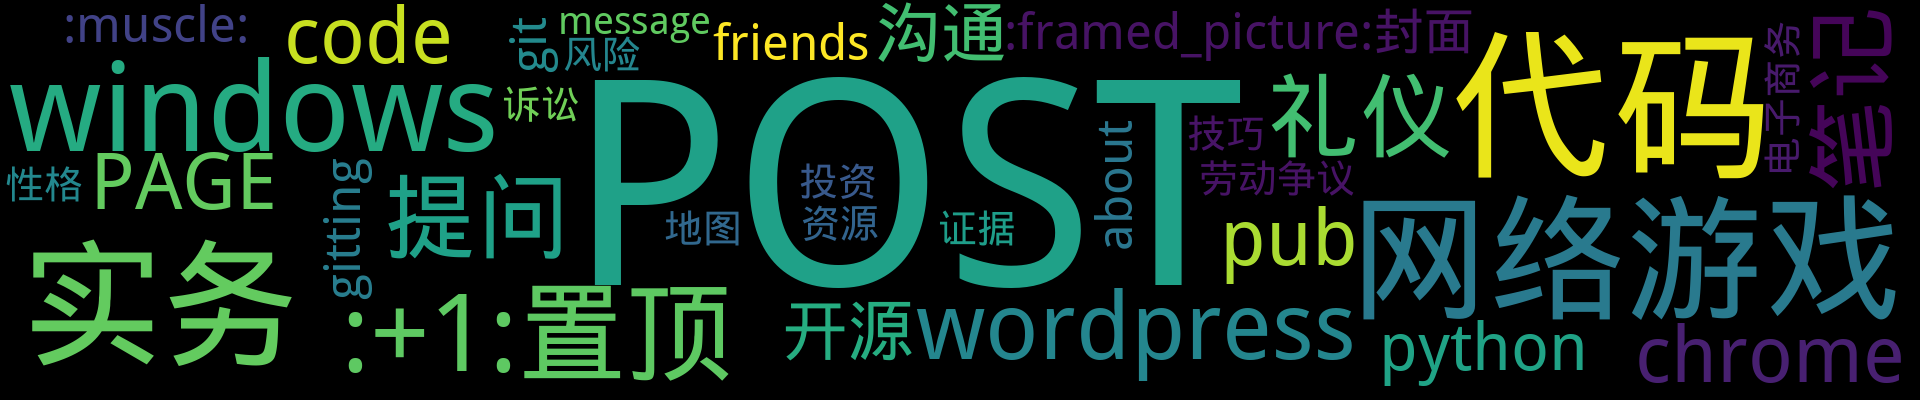
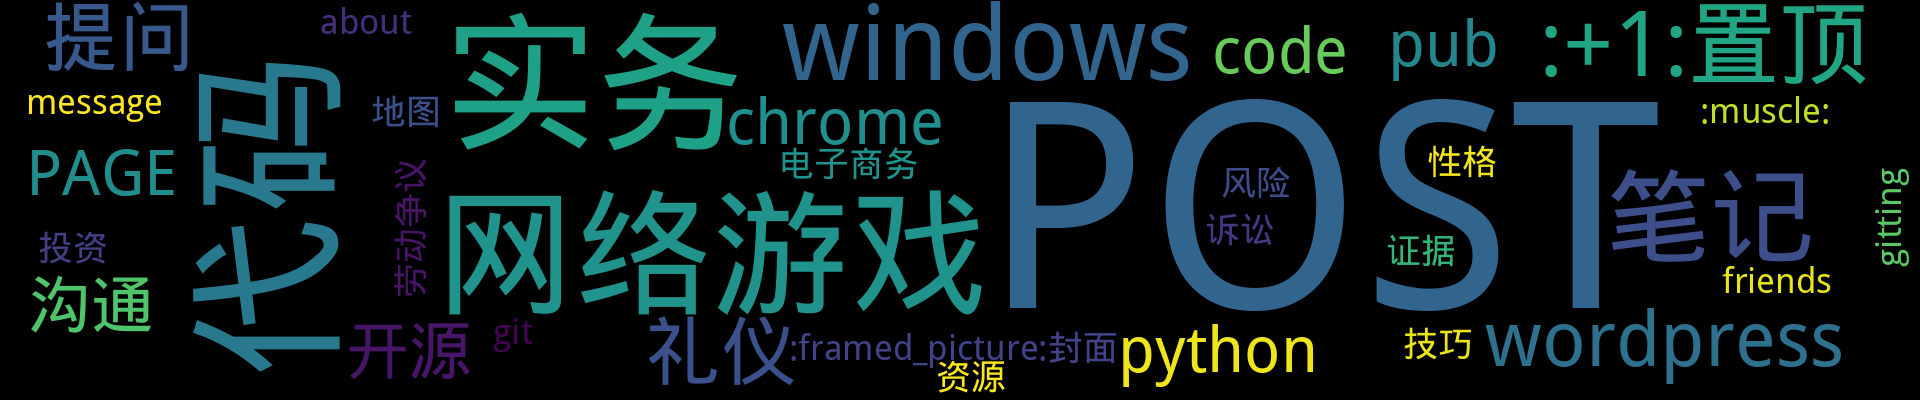
Update from Github Action

diff --git a/README.md b/README.md
@@ -11,7 +11,7 @@
 <p align='center'>
     <img src="https://badgen.net/badge/labels/40"/>
     <img src="https://badgen.net/github/issues/fydy/elaw"/>
-    <img src="https://badgen.net/badge/last-commit/2023-04-07 01:25:08"/>
+    <img src="https://badgen.net/badge/last-commit/2023-04-07 04:25:54"/>
     <img src="https://badgen.net/github/forks/fydy/elaw"/>
     <img src="https://badgen.net/github/stars/fydy/elaw"/>
     <img src="https://badgen.net/github/watchers/fydy/elaw"/>
@@ -46,6 +46,30 @@ is
 - [简单生活](https://github.com/fydy/elaw/issues/36)  <sup>0 :speech_balloon:</sup>  	 
 - [提问的智慧](https://github.com/fydy/elaw/issues/19)  <sup>0 :speech_balloon:</sup>  	 
 ## 最新 :new: 
+
+#### [实务指引：离婚诉讼的基本流程与法律要点](https://github.com/fydy/elaw/issues/71) <sup>0 :speech_balloon:</sup> 	 2023-04-07 04:25:29
+
+:label: : [实务](https://github.com/fydy/isblog/labels/%E5%AE%9E%E5%8A%A1), [POST](https://github.com/fydy/isblog/labels/POST), [笔记](https://github.com/fydy/isblog/labels/%E7%AC%94%E8%AE%B0)
+
+# 实务指引：离婚诉讼的基本流程与法律要点
+
+> 文章来源最高人民法院司法案例研究院
+
+<center>离婚诉讼一般经历三个阶段<br>
+诉辩阶段<br>
+▼<br>
+审理阶段<br>
+▼<br>
+判执阶段<br>
+</center>
+
+
+![818b49e94f5a710
+
+[更多>>>](https://github.com/fydy/elaw/issues/71)
+
+---
+
 
 #### [签订房屋买卖合同务必知道的30个要点](https://github.com/fydy/elaw/issues/70) <sup>0 :speech_balloon:</sup> 	 2023-04-07 01:24:35
 
@@ -121,19 +145,6 @@ This post aims to demonstrate how composite GitHub Actions can be used to to spl
 ` 当人们提起北京，它是一个常住人口2189万、面积16410平方公里的超
 
 [更多>>>](https://github.com/fydy/elaw/issues/67)
-
----
-
-
-#### [移动硬盘参数错误解决教程](https://github.com/fydy/elaw/issues/66) <sup>0 :speech_balloon:</sup> 	 2022-01-06 08:55:56
-
-:label: : [POST](https://github.com/fydy/isblog/labels/POST)
-
-## 方法一、修复逻辑坏区
-1、点击左下角的开始-运行，或者使用快捷键WIN+R键打开运行窗口，然后输入cmd打开dos窗口。
-![image](https://user-images.githubusercontent.com/39726855/148356242-ad615b83-0d4b-
-
-[更多>>>](https://github.com/fydy/elaw/issues/66)
 
 ---
 
@@ -269,8 +280,9 @@ This post aims to demonstrate how composite GitHub Actions can be used to to spl
 </details>
 
 <details>
-<summary>POST	<sup>53:newspaper:</sup></summary>
+<summary>POST	<sup>54:newspaper:</sup></summary>
 
+- [实务指引：离婚诉讼的基本流程与法律要点](https://github.com/fydy/elaw/issues/71)  <sup>0 :speech_balloon:</sup>  	 
 - [签订房屋买卖合同务必知道的30个要点](https://github.com/fydy/elaw/issues/70)  <sup>0 :speech_balloon:</sup>  	 
 - [Using Composite GitHub Actions to make your Workflows smaller and more reusable](https://github.com/fydy/elaw/issues/69)  <sup>0 :speech_balloon:</sup>  	 
 - [fiddler everywhere](https://github.com/fydy/elaw/issues/68)  <sup>0 :speech_balloon:</sup>  	 
@@ -398,8 +410,9 @@ This post aims to demonstrate how composite GitHub Actions can be used to to spl
 </details>
 
 <details>
-<summary>实务	<sup>5:newspaper:</sup></summary>
+<summary>实务	<sup>6:newspaper:</sup></summary>
 
+- [实务指引：离婚诉讼的基本流程与法律要点](https://github.com/fydy/elaw/issues/71)  <sup>0 :speech_balloon:</sup>  	 
 - [如何制造抗辩争点-转自民法学人](https://github.com/fydy/elaw/issues/37)  <sup>0 :speech_balloon:</sup>  	 
 - [离婚析产 附有关规定](https://github.com/fydy/elaw/issues/32)  <sup>0 :speech_balloon:</sup>  	 
 - [高院法官谈：律师如何举证、质证？](https://github.com/fydy/elaw/issues/11)  <sup>0 :speech_balloon:</sup>  	 
@@ -494,8 +507,9 @@ This post aims to demonstrate how composite GitHub Actions can be used to to spl
 </details>
 
 <details>
-<summary>笔记	<sup>3:newspaper:</sup></summary>
+<summary>笔记	<sup>4:newspaper:</sup></summary>
 
+- [实务指引：离婚诉讼的基本流程与法律要点](https://github.com/fydy/elaw/issues/71)  <sup>0 :speech_balloon:</sup>  	 
 - [签订房屋买卖合同务必知道的30个要点](https://github.com/fydy/elaw/issues/70)  <sup>0 :speech_balloon:</sup>  	 
 - [知乎读书-如何有效提问](https://github.com/fydy/elaw/issues/14)  <sup>0 :speech_balloon:</sup>  	 
 - [课程笔记](https://github.com/fydy/elaw/issues/13)  <sup>0 :speech_balloon:</sup>  	 
